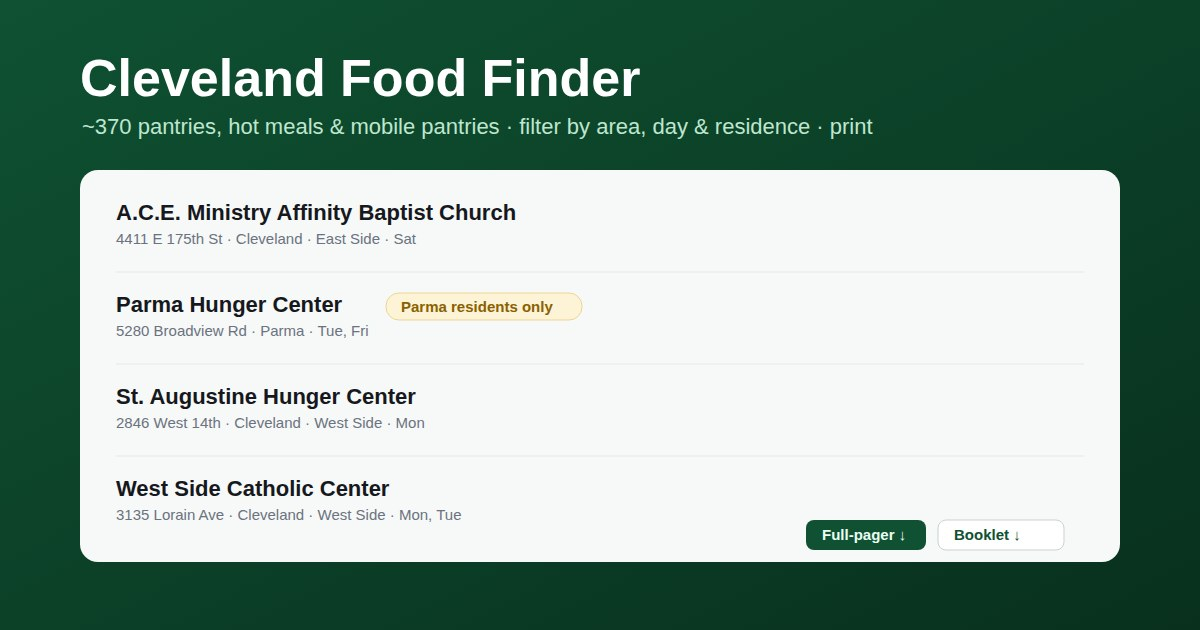
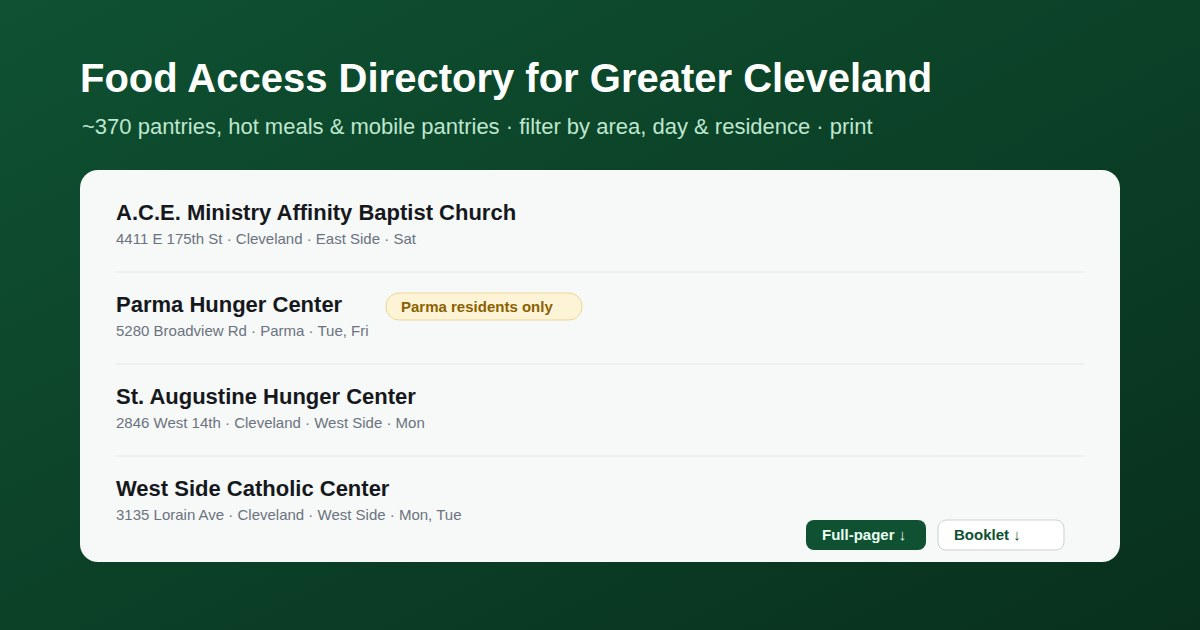
Rename the sub-app to "Food Access Directory for Greater Cleveland"
Updates the title across the page (browser/OG/twitter), the in-app header,
the gallery entry, and the baked thumbnail + OG artwork. Slug stays `pantry`.

Claude-Session: https://claude.ai/code/session_01NQjMY5TUdw2RDzmnrDjKfx

Changed region(s): [[0.0617, 0.0905, 0.8017, 0.1508]]

diff --git a/apps/pantry/index.html b/apps/pantry/index.html
@@ -3,19 +3,19 @@
   <head>
     <meta charset="UTF-8" />
     <meta name="viewport" content="width=device-width, initial-scale=1.0" />
-    <title>Cleveland Food Finder — Jayce Renner</title>
+    <title>Food Access Directory for Greater Cleveland — Jayce Renner</title>
     <link rel="icon" type="image/svg+xml" href="./favicon.svg" />
     <meta name="description" content="A filterable directory of free food sources — pantries, hot meals, and mobile pantries — around Greater Cleveland, cleansed from Greater Cleveland Food Bank data. Filter by area, day, and the city you live in; see eligibility upfront; export a printable full-pager or a fold-up booklet." />
     <meta property="og:type" content="website" />
     <meta property="og:site_name" content="Jayce Renner — Creative Coding" />
-    <meta property="og:title" content="Cleveland Food Finder" />
+    <meta property="og:title" content="Food Access Directory for Greater Cleveland" />
     <meta property="og:description" content="A filterable directory of free food sources around Greater Cleveland, cleansed from Greater Cleveland Food Bank data. Eligibility upfront, plus printable full-pager and fold-up booklet PDFs." />
     <meta property="og:url" content="https://jaycer.github.io/creative-coding-portfolio/apps/pantry/" />
     <meta property="og:image" content="https://jaycer.github.io/creative-coding-portfolio/og/pantry.jpg" />
     <meta property="og:image:width" content="1200" />
     <meta property="og:image:height" content="630" />
     <meta name="twitter:card" content="summary_large_image" />
-    <meta name="twitter:title" content="Cleveland Food Finder" />
+    <meta name="twitter:title" content="Food Access Directory for Greater Cleveland" />
     <meta name="twitter:description" content="A filterable directory of free food sources around Greater Cleveland, with eligibility upfront and printable PDF exports." />
     <meta name="twitter:image" content="https://jaycer.github.io/creative-coding-portfolio/og/pantry.jpg" />
   </head>

diff --git a/apps/pantry/main.ts b/apps/pantry/main.ts
@@ -88,7 +88,7 @@ const app = document.getElementById("app")!;
 app.innerHTML = `
   <header class="bar">
     <a class="back" href="../../">← Gallery</a>
-    <h1>Cleveland Food Finder</h1>
+    <h1>Food Access Directory for Greater Cleveland</h1>
     <span class="count" id="count"></span>
   </header>
   <div class="wrap">

diff --git a/src/apps.js b/src/apps.js
@@ -10,7 +10,7 @@
 export const apps = [
   { slug: 'chair-pile',             title: 'Chair Pile',             blurb: 'Chairs fall out of the dark and pile up forever. Tap or press any key to send another one down, then drag to look around what you built.', entry: 'index.html' },
   { slug: 'chairs-in-space',        title: 'Chairs In Space!',       blurb: 'The chairs are pulled into a singularity. Slowly they form a planetoid. Tap to add a chair. Orbit the center and zoom.', entry: 'index.html' },
-  { slug: 'pantry',                 title: 'Cleveland Food Finder',  blurb: 'A filterable directory of ~370 free food sources around Cleveland, cleansed from Greater Cleveland Food Bank data. Filter by area, day, and the city you live in; eligibility shown upfront; export a printable full-pager or a fold-up booklet.', entry: 'index.html' },
+  { slug: 'pantry',                 title: 'Food Access Directory for Greater Cleveland',  blurb: 'A filterable directory of ~370 free food sources around Cleveland, cleansed from Greater Cleveland Food Bank data. Filter by area, day, and the city you live in; eligibility shown upfront; export a printable full-pager or a fold-up booklet.', entry: 'index.html' },
   { slug: 'photo-gallery',          title: 'Photo Gallery',          blurb: 'Professional photography including real estate interiors and exteriors, and more.', entry: 'index.html' },
   { slug: 'ch4td1c3',               title: 'ch4td1c3',               blurb: 'A full set of DnD dice drawn by a raymarching shader, hearts and all. Tap a die to roll it, or rattle the whole set.', entry: 'index.html' },
   { slug: 'bloon-boon',             title: 'Bloon Boon',             blurb: 'A shader-bloon juggling game. Tap and flick glossy 3D bloons to keep them aloft, each color singing its own sound, until 30 are up at once and you win.', entry: 'index.html' },